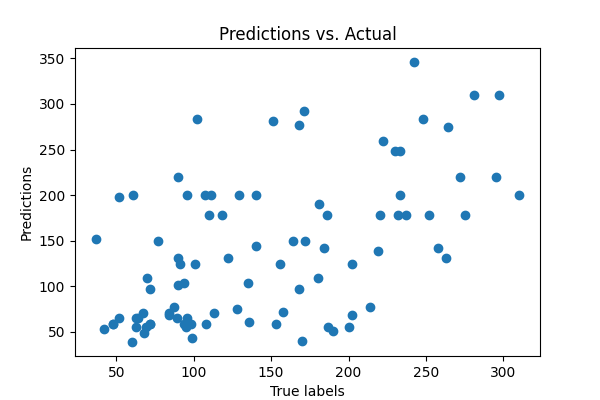
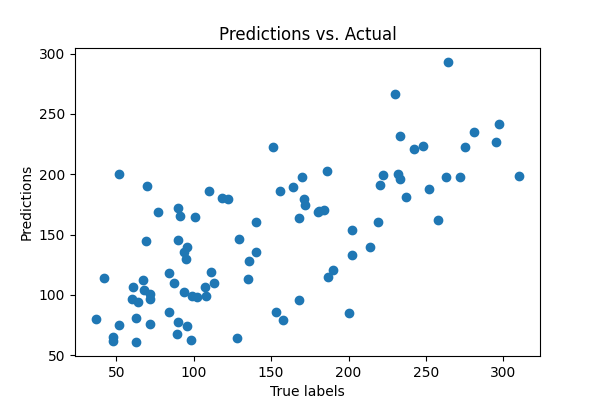
Enhance diabetes regression model with hyperparameter tuning and leaderboard functionality

diff --git a/diabetes.py b/diabetes.py
@@ -1,62 +1,147 @@
 import mlflow
 import mlflow.sklearn
 from sklearn.datasets import load_diabetes
-from sklearn.model_selection import train_test_split
+from sklearn.model_selection import train_test_split, KFold, GridSearchCV
 from sklearn.ensemble import RandomForestClassifier
 from sklearn.metrics import root_mean_squared_error, r2_score
+from mlflow.models.signature import infer_signature
+from mlflow import MlflowClient
 import matplotlib.pyplot as plt
 import pandas as pd
 import numpy as np
 import warnings
 warnings.filterwarnings('ignore')
 from pathlib import Path
+from lightgbm import LGBMRegressor
+from xgboost import XGBRegressor
+
+
+def leaderboard(experiment_name='diabetes_advanced_regression', metric='rmse'):
+    client = MlflowClient()
+    exp = client.get_experiment_by_name(experiment_name)
+
+    runs = client.search_runs(
+        experiment_ids=[exp.experiment_id],
+        order_by=[f'metrics.{metric}ASC'],
+    )
+    print('\nLEADERBOARD (lowest RMSE first) \n')
+    for r in runs:
+        print(
+            f'Run: {r.info.run_id} | Model: {r.data.tags.get('model_type')}'
+            f'| RMSE: {r.data.metrics.get('rmse'):.4f} | R2: {r.data.metrics.get('r2'):.4f}')
 
 data = load_diabetes()
-x = data.data
-y = data.target 
+x = pd.DataFrame(data.data, columns=data.feature_names)
+y = pd.Series(data.target, name='target')
 
 x_train, x_test, y_train, y_test = train_test_split(
     x, y, test_size=0.2, random_state=42
 )
 
-mlflow.set_experiment('diabetes_regression')
-with mlflow.start_run(run_name='rf_baseline'):
+params_grid = {
+    'randomforest': {
+        'model' : RandomForestClassifier(random_state=42),
+        'params' : {
+            'n_estimators' :[90,120],
+            'max_depth' : [4,6]
+        }
+    },
+    'xgboost' : {
+        'model' : XGBRegressor(objective='reg:squarederror', random_state=42),
+        'params' : {
+            'n_estimators' : [90, 120],
+            'max_depth' : [4,7],
+            'learning_rate' : [0.1, 0.3]
+        }
+    },
+    'lightgbm' : {
+        'model' : LGBMRegressor(random_state=42),
+        'params' : {
+            'n_estimators' : [90,120],
+            'max_depth' : [0, 2],
+            'learning_rate' : [0.08,0.1],
+            'num_leaves' : [31, 35]
+        }
+    }
+}
 
-    n_estimators = 200
-    max_depth = 5
-    random_state = 42
+cv = KFold(n_splits=5, shuffle=True, random_state=42)
 
-    mlflow.log_param('n_estimators', n_estimators)
-    mlflow.log_param('max_depth', max_depth)
-    mlflow.log_param('random_state', random_state)
+mlflow.set_experiment('diabetes_advanced_regression')
+client = MlflowClient()
 
-    model = RandomForestClassifier(
-        n_estimators=n_estimators,
-        max_depth=max_depth,
-        random_state=random_state
-    )
+for model_name, config in params_grid.items():
+    with mlflow.start_run(run_name=f'{model_name}_gridsearchCV'):
 
-    model.fit(x_train, y_train)
+        print(f'Running Model : {model_name}...')
+        
+        base_model = config['model']
+        params = config['params']
 
-    preds = model.predict(x_test)
+        mlflow.set_tag('developer','Maxwell Selassie')
+        mlflow.set_tag('dataset','sklearn.diabetes')
+        mlflow.set_tag('model_type',model_name)
+        mlflow.set_tag('purpose','hyperparameter tuning')
 
-    rmse = root_mean_squared_error(y_test, preds)
-    r2 = r2_score(y_test, preds)
+        mlflow.log_param('params_grid', params)
 
-    mlflow.log_metric('rmse', rmse)
-    mlflow.log_metric('r2', r2)
+        # gridsearchCV
+        model = GridSearchCV(
+            estimator=base_model,
+            param_grid=params,
+            cv=cv,
+            scoring='neg_mean_squared_error',
+            n_jobs=-1,
+            refit=True
+        )
 
-    Path('artifacts').mkdir(parents=True, exist_ok=True)
+        model.fit(x_train, y_train)
 
-    plt.figure(figsize=(6,4))
-    plt.scatter(y_test, preds)
-    plt.xlabel('True labels')
-    plt.ylabel('Predictions')
-    plt.title('Predictions vs. Actual')
-    plot_path = 'artifacts/pred_vs_true.png'
-    plt.savefig(plot_path)
-    plt.close()
+        best_model = model.best_estimator_
+        best_params = model.best_params_
+        
+        print(f'best params : {best_params}')
 
-    mlflow.log_artifact(plot_path)
+        # log best params
+        for p, v in best_params.items():
+            mlflow.log_param(p,v)
 
-    mlflow.sklearn.log_model(model, 'model')
+
+
+
+        preds = best_model.predict(x_test)
+
+        rmse = root_mean_squared_error(y_test, preds)
+        r2 = r2_score(y_test, preds)
+
+        mlflow.log_metric('rmse', rmse)
+        mlflow.log_metric('r2', r2)
+
+        Path('artifacts').mkdir(parents=True, exist_ok=True)
+
+        plt.figure(figsize=(6,4))
+        plt.scatter(y_test, preds)
+        plt.xlabel('True labels')
+        plt.ylabel('Predictions')
+        plt.title('Predictions vs. Actual')
+        plot_path = 'artifacts/pred_vs_true.png'
+        plt.savefig(plot_path)
+        plt.close()
+
+        mlflow.log_artifact(plot_path)
+
+        # model signature and input example
+        signature = infer_signature(
+            x_train, best_model.predict(x_train)
+        )
+        input_example = x_train.head(5)
+
+        # log model with signature
+        mlflow.sklearn.log_model(
+            sk_model=best_model, artifact_path='model',
+            signature=signature, input_example=input_example
+        )
+
+        print(f'Logged {model_name} to MLflow')
+
+leaderboard()
